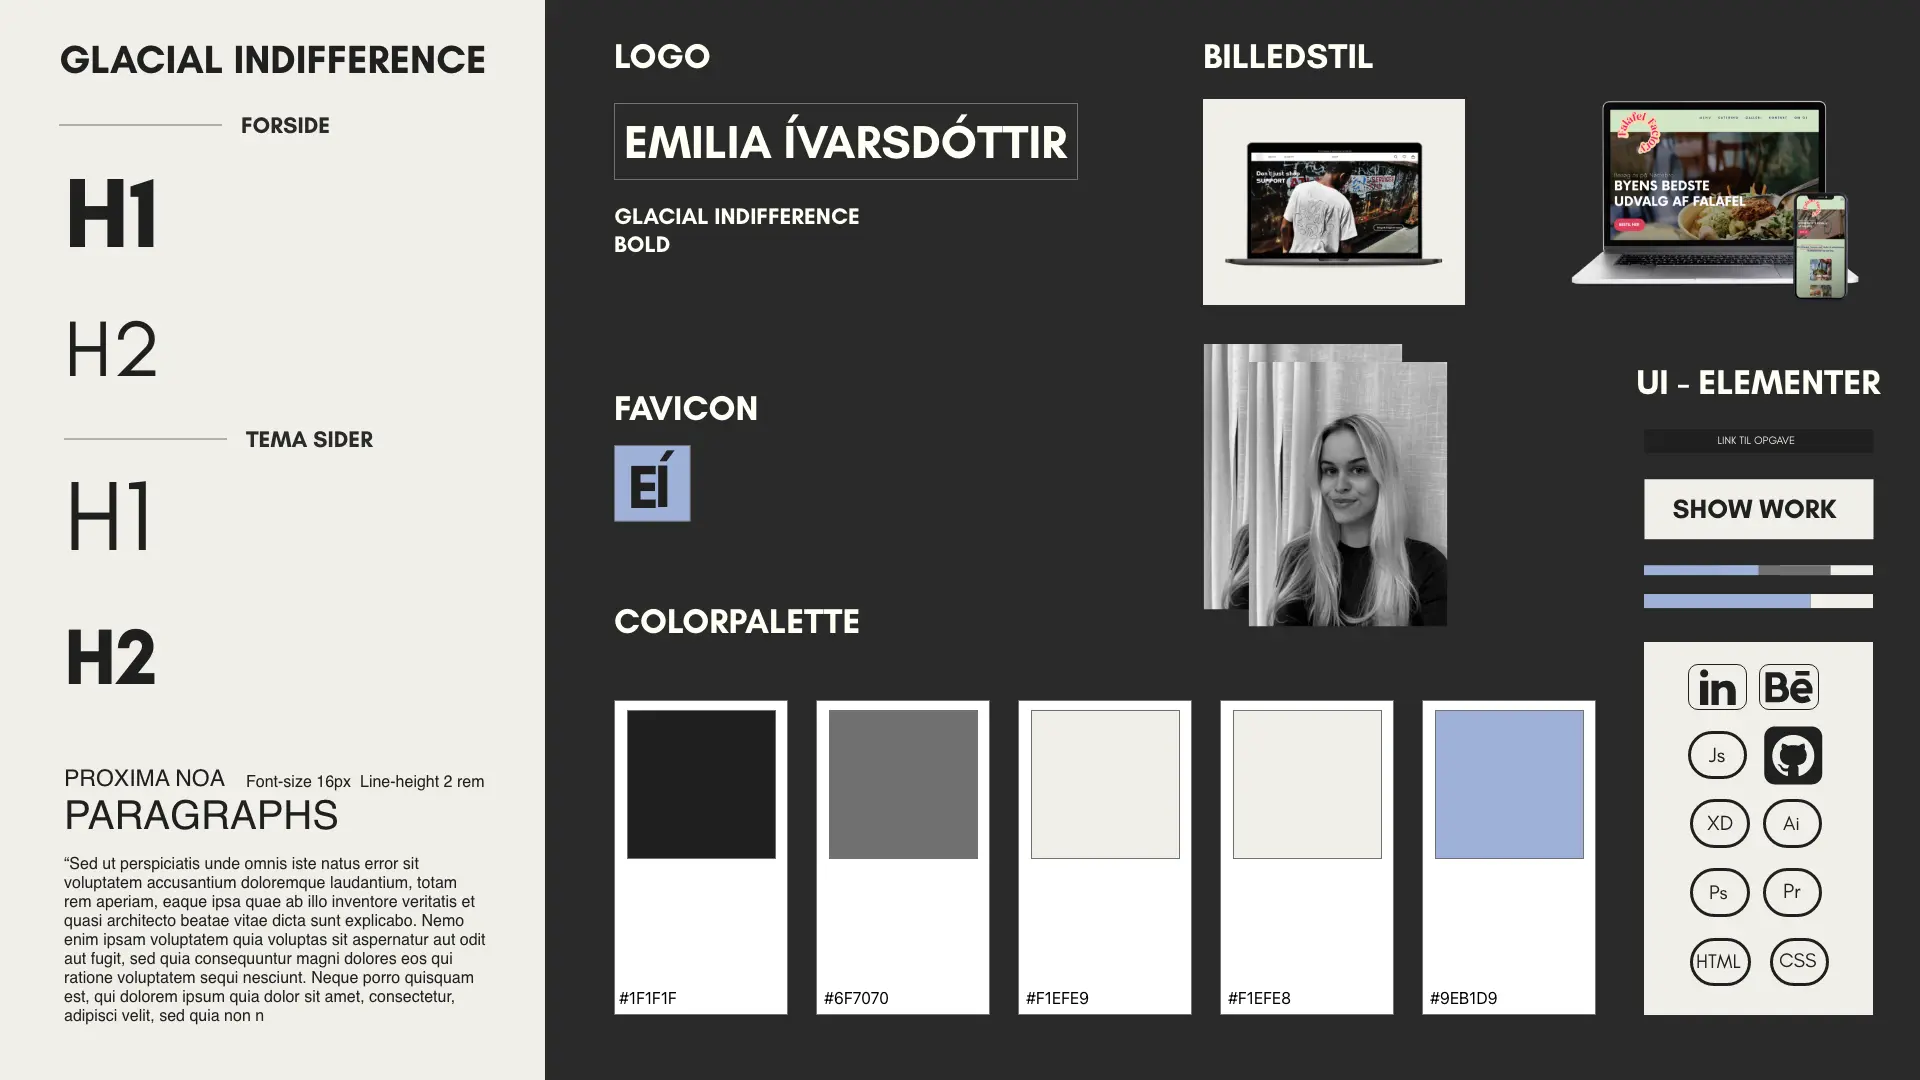
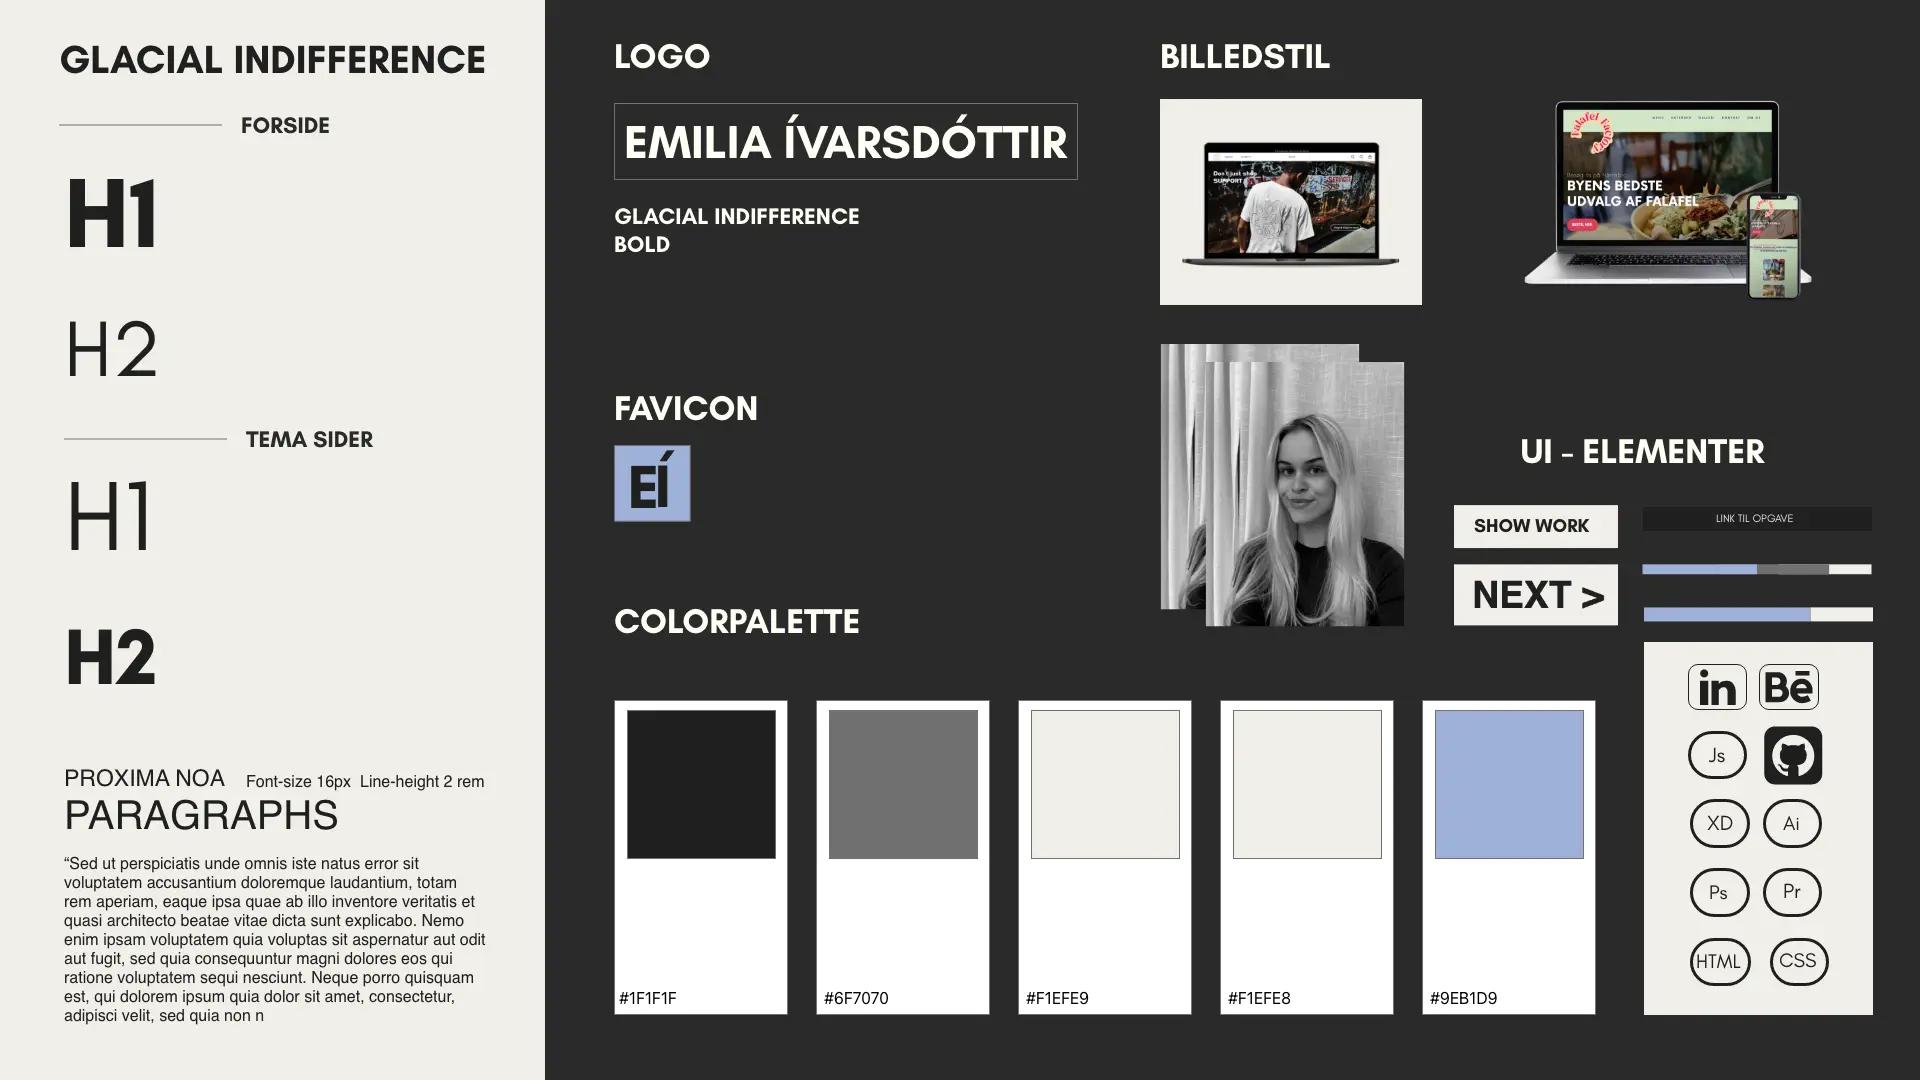
test

Changed region(s): [[0.5938, 0.0917, 1.0, 0.5806], [0.8438, 0.3361, 1.0, 0.3667], [0.5938, 0.0306, 0.7188, 0.0611]]

diff --git a/portfolio_tema.html b/portfolio_tema.html
@@ -259,13 +259,12 @@
             <h6>5 SECOND TEST</h6>
             <div class="ux-grid1-1">
                 <div>
-                    <h6 class="h6-udfordringer">HVAD FANGEDE DIN OPMÆRKSOMHED?</h6>
-                    <p class="p-udfordringer-formål">Billedet.</p>
-                    <p class="p-udfordringer-formål">Overskriften.</p>
+                    <p class="interview">HVAD FANGEDE DIN OPMÆRKSOMHED?</p>
+                    <p>Billedet og overskriften.</p>
                 </div>
                 <div>
-                    <h6 class="h6-udfordringer">HVAD HANDLER SITET OM?</h6>
-                    <p class="p-udfordringer-formål">Stilrent portfoliosite for en ung kvinde, med et æstetisk layout.
+                    <p class="interview">HVAD HANDLER SITET OM?</p>
+                    <p>Stilrent portfoliosite for en ung kvinde, med et æstetisk layout.
                     </p>
                 </div>
             </div>
@@ -273,42 +272,48 @@
             <p class="interview">Friendly welcome</p>
             <p>Testen går ud på at teste prototypen af. Det er derfor ikke dig som bruger der bliver testet men derimod
                 dig der tester
-                prototypen af. Du skal klikke dig rundt på hjemmesiden og forstille dig at du overvejer at hyre mig som
-                studiemedarbejder i din virksomhed. Testen skal vise om hjemmesiden er brugervenlig/nem og navigere
+                prototypen af. Du skal klikke dig rundt på hjemmesiden og forstille dig at du er min underviser på 1.
+                semester, og du skal se og opnå en forståelse af hvad jeg har lært i løbet af semesteret. Testen skal
+                vise om hjemmesiden er brugervenlig/nem og navigere
                 rundt i, og om UI
                 konventionerne er forståelige. Derudover skal den teste, hvad brugeren lægger vægt på, samt hvad der
                 fanger brugerens
                 opmærksomhed.</p>
             <p class="interview">Context questions</p>
             <p>Hvad lægger du mest fokus på når kigger på portfolios?</p>
-            <p>•Hvordan layout og look er.
-                Men hovedsageligt cases, hvad de viser og fortæller.
+            <p>•Hvordan layout og look erpå siden,
+                men hovedsageligt cases, hvad de viser og fortæller.
                 Vigtigt med visuelt udtryk og forklarende tekster.</p>
             <p class="interview">Introduction</p>
             <p>Du skal bevæge dig rundt og se det arbejde jeg har udført i 1. semester.</p>
             <p class="interview">Tasks</p>
-            <p>1. Du lander på ´landing page´.</p>
+            <p>1. Du lander på landing page.</p>
             <p> 2. Dernæst skal du ind på portfolio menuen og navigere rundt mellem de forskellige temaer.</p>
             <p> 3. Tilslut skal du ind og læse om mig og mit cv samt finde mine kontakt oplysninger.</p>
             <p class="interview">Debrief</p>
-            <p>Hvad fungerede godt?
+            <p class="quest">Hvad fungerede godt?</p>
             <p>•Nem navigation</p>
             <p>•Hurtigt overblik over projekter.</p>
-            <p>Hvad fungerede mindre godt?</p>
+            <p class="quest">Hvad fungerede mindre godt?</p>
             <p>•Navigere fra det ene projekt til næste.</p>
-            <p>•Tilføj knap til næste projekt?</p>
-            <p>Hvilke forbedringer kan der fortages?</p>
+            <p class="quest">Hvilke forbedringer kan der fortages?</p>
             <p>•Tilføj knap til næste projekt, for nemmer eog hurtigere navigation mellem projekter.</p>
-            <p>Var der nogle ting der ikke gav mening?</p>
+            <p class="quest">Var der nogle ting der ikke gav mening?</p>
             <p>•Nej</p>
-            <p>Hvad kiggede du på først?</p>
+            <p class="quest">Hvad kiggede du på først?</p>
             <p>•Forside og projekter.</p>
-            <p>Manglede der noget?</p>
+            <p class="quest">Manglede der noget?</p>
             <p>•Næste knap - hurtigere navigation.</p>
-            <p>Var der nogle ting der var mere interessante end andre?</p>
+            <p class="quest">Var der nogle ting der var mere interessante end andre?</p>
             <p>•Portfolio og projekter.</p>
 
-
+            <p>Jeg oplevede stor værdi ved at implementere et Five Act Interviewet, da brugeren gentagne gange påpegede,
+                at det
+                var svært at navigere mellem forskellige temaer, især når de nåede bunden af siden og var færdige med at
+                se det aktuelle
+                tema. Som en løsning tilføjede jeg en "Næste" knap nederst på hvert tema, der hurtigt kunne føre
+                brugeren videre til det
+                næste tema.</p>
             <div id="section-39"></div>
             <h6>KODE</h6>
         </div>

diff --git a/css/custom.css b/css/custom.css
@@ -477,7 +477,14 @@ p {
   }
 }
 /* Portfolio */
-
+.interview {
+  font-size: 25px;
+  font-weight: 600;
+}
+.quest {
+  font-size: 16px;
+  font-weight: 600;
+}
 /* next knap */
 .next {
   text-decoration: none;
